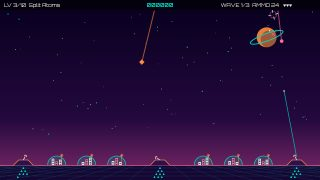
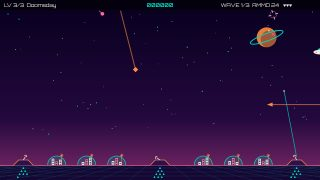
Give Atomic Defense three levels and a saved-skyline ending (oi3)
First Light (plain warheads), Split Atoms (salvos, MIRVs, smart bombs,
saucers) and Doomsday (heavies, cruise missiles, a blackout wave and the
mothership) replace the ten-level table; night is now per wave, so the
blackout is one wave of the finale. The ending raises six domes under
searchlights and Googie starbursts.

Claude-Session: https://claude.ai/code/session_016R86i3evNakTHXcnyVkEfD

diff --git a/internal/generator/templates/themes/retrofuture/game.js b/internal/generator/templates/themes/retrofuture/game.js
@@ -9,10 +9,12 @@
  * wave, batteries can be knocked out, and the level is lost when the last
  * city falls. Points earn bonus cities.
  *
- * The ten levels add, in turn: salvos, MIRVs that split, saucers that bomb,
- * night (only trails show, blasts light up what is near them), smart bombs
- * that dodge blasts, heavy warheads that need two blasts and flatten the
- * neighbours, low cruise missiles from the sides, and a mothership.
+ * Three levels: plain warheads first; then salvos, MIRVs that split, smart
+ * bombs that dodge blasts and saucers that bomb; then the final assault with
+ * heavy warheads that need two blasts and flatten the neighbours, low cruise
+ * missiles from the sides, a blackout wave (only trails show, blasts light
+ * up what is near them) and a mothership. Saving the cities opens the
+ * ending: the skyline rises under searchlights and atomic starbursts.
  */
 (function () {
     'use strict';
@@ -38,18 +40,12 @@
 
     // n: warheads per wave; speed: px/s; gap: seconds between launches (or
     // between salvos); salvo: launches per group; mirv/smart/heavy/cruise:
-    // share of launches of that kind; saucers: per wave.
+    // share of launches of that kind; saucers and night: per wave; boss: the
+    // last wave brings the mothership.
     var LEVELS = [
-        { n: [7, 9, 11], speed: 42, gap: 1.7 },
-        { n: [9, 12, 15], speed: 54, gap: 3.6, salvo: 3 },
-        { n: [9, 10, 12], speed: 56, gap: 1.6, mirv: 0.35 },
-        { n: [9, 11, 12], speed: 60, gap: 1.5, mirv: 0.2, saucers: [1, 2, 2] },
-        { n: [10, 12, 13], speed: 60, gap: 1.5, mirv: 0.25, saucers: [1, 1, 2], night: true },
-        { n: [10, 12, 14], speed: 64, gap: 1.4, mirv: 0.2, smart: 0.22, saucers: [0, 1, 1] },
-        { n: [10, 12, 13, 14], speed: 66, gap: 1.4, mirv: 0.2, smart: 0.12, heavy: 0.18, saucers: [1, 1, 1, 2] },
-        { n: [11, 12, 13, 15], speed: 70, gap: 1.3, mirv: 0.22, smart: 0.15, heavy: 0.1, saucers: [1, 1, 1, 1], night: true },
-        { n: [11, 13, 14, 16], speed: 74, gap: 1.3, mirv: 0.18, smart: 0.12, heavy: 0.1, cruise: 0.22, saucers: [1, 1, 2, 2] },
-        { n: [12, 14, 15, 8], speed: 76, gap: 1.25, mirv: 0.2, smart: 0.14, heavy: 0.1, cruise: 0.14, saucers: [1, 1, 2, 0], night: true, boss: true }
+        { n: [8, 10, 12], speed: 44, gap: 1.6 },
+        { n: [10, 12, 14], speed: 54, gap: 2.6, salvo: 2, mirv: 0.3, smart: 0.1, saucers: [0, 1, 2] },
+        { n: [10, 10, 8], speed: 62, gap: 1.35, mirv: 0.2, smart: 0.12, heavy: 0.12, cruise: 0.14, saucers: [1, 1, 0], night: [false, true, false], boss: true }
     ];
 
     // ------------------------------------------------------------------
@@ -147,6 +143,9 @@
         s.queue = buildWave(s);
         return s;
     }
+
+    // The blackout is one wave of the finale: only trails show.
+    function night(s) { return !!(s.cfg.night && s.cfg.night[s.wave]); }
 
     function cities(s, alive) {
         return s.sites.filter(function (c) { return !c.base && c.alive === alive; });
@@ -329,7 +328,7 @@
         f.x += f.vx * dt; f.y += f.vy * dt;
         if (f.hurt > 0) f.hurt -= dt;
         // The trail is a capped list of points, so curving paths draw right
-        // and the night levels can show just its last stretch.
+        // and the blackout can show just its last stretch.
         var last = f.trail[f.trail.length - 1];
         if (G.dist(last.x, last.y, f.x, f.y) < 14) return;
         f.trail.push({ x: f.x, y: f.y });
@@ -609,10 +608,10 @@
     }
 
     function drawSky(s, ctx) {
-        var night = !!s.cfg.night, g = ctx.createLinearGradient(0, G.HUD, 0, GROUND);
-        g.addColorStop(0, night ? '#020007' : BG);
-        g.addColorStop(0.7, night ? '#06010f' : '#24093f');
-        g.addColorStop(1, night ? '#12041f' : '#6a2360');
+        var dark = night(s), g = ctx.createLinearGradient(0, G.HUD, 0, GROUND);
+        g.addColorStop(0, dark ? '#020007' : BG);
+        g.addColorStop(0.7, dark ? '#06010f' : '#24093f');
+        g.addColorStop(1, dark ? '#12041f' : '#6a2360');
         ctx.fillStyle = g;
         ctx.fillRect(0, 0, G.W, GROUND);
         s.stars.forEach(function (st, i) {
@@ -621,14 +620,14 @@
             ctx.fillStyle = st.big ? TEAL : CREAM;
             ctx.fillRect(st.x, st.y, st.big ? 3 : 2, st.big ? 3 : 2);
         });
-        drawPlanet(ctx, night);
+        drawPlanet(ctx, dark);
     }
 
     // A perspective grid below the horizon, in the theme's own style.
     function drawGround(s, ctx) {
-        ctx.fillStyle = s.cfg.night ? '#07020f' : '#160633';
+        ctx.fillStyle = night(s) ? '#07020f' : '#160633';
         ctx.fillRect(0, GROUND, G.W, G.H - GROUND);
-        ctx.strokeStyle = TEAL; ctx.lineWidth = 1; ctx.globalAlpha = s.cfg.night ? 0.12 : 0.28;
+        ctx.strokeStyle = TEAL; ctx.lineWidth = 1; ctx.globalAlpha = night(s) ? 0.12 : 0.28;
         ctx.beginPath();
         for (var i = -14; i <= 14; i++) { ctx.moveTo(G.W / 2 + i * 38, GROUND); ctx.lineTo(G.W / 2 + i * 92, G.H); }
         for (var y = GROUND + 8; y < G.H; y += 12) { ctx.moveTo(0, y); ctx.lineTo(G.W, y); }
@@ -734,7 +733,7 @@
 
     function drawSites(s, ctx) {
         s.sites.forEach(function (c) {
-            if (c.base) drawBattery(ctx, c, s.touch); else drawCity(ctx, c, !!s.cfg.night);
+            if (c.base) drawBattery(ctx, c, s.touch); else drawCity(ctx, c, night(s));
         });
     }
 
@@ -744,7 +743,7 @@
 
     // At night anything is only seen in the glow of a nearby blast.
     function lit(s, x, y) {
-        if (!s.cfg.night) return true;
+        if (!night(s)) return true;
         return s.blasts.some(function (b) { return G.dist(x, y, b.x, b.y) < b.r + 90; });
     }
 
@@ -790,9 +789,9 @@
     }
 
     function drawFoes(s, ctx) {
-        var night = !!s.cfg.night;
+        var dark = night(s);
         s.foes.forEach(function (f) {
-            drawTrail(ctx, f, night);
+            drawTrail(ctx, f, dark);
             if (lit(s, f.x, f.y)) drawHead(ctx, f);
         });
     }
@@ -891,7 +890,7 @@
             return;
         }
         if (s.waveT <= 0.05 || s.waveT > 2.4) return;
-        var note = s.boss ? 'MOTHERSHIP INBOUND' : (s.cfg.night ? 'BLACKOUT: WATCH THE TRAILS' : 'DEFEND THE DOMES');
+        var note = s.boss ? 'MOTHERSHIP INBOUND' : (night(s) ? 'BLACKOUT: WATCH THE TRAILS' : 'DEFEND THE DOMES');
         ctx.globalAlpha = Math.min(1, (2.4 - s.waveT) * 2);
         G.text('WAVE ' + (s.wave + 1) + ' OF ' + waves, G.W / 2, 190, { size: 30, bold: true, color: ORANGE, align: 'center', glow: ORANGE });
         G.text(note, G.W / 2, 226, { size: 20, color: CREAM, align: 'center' });
@@ -911,6 +910,68 @@
         drawCursor(s, ctx);
     }
 
+    // ------------------------------------------------------------------
+    // The ending: the skyline the player saved
+    // ------------------------------------------------------------------
+
+    // Six domes rise one after another, as a rebuilt city does, in a fresh
+    // foreground strip that covers the batteries' tally (and stays under the
+    // engine's small print); searchlights sweep the sky and atomic
+    // starbursts twinkle in the corners, clear of the engine's text.
+    var END_K = 1.2;
+    var BURSTS = [[70, 80], [890, 90], [250, 60], [710, 70], [130, 240], [830, 250], [60, 350], [900, 360]];
+
+    function drawSkyline(ctx, t) {
+        var span = G.W / END_K;
+        ctx.fillStyle = '#160633';
+        ctx.fillRect(0, GROUND, G.W, G.H - GROUND);
+        ctx.fillStyle = PINK;
+        ctx.fillRect(0, GROUND - 1, G.W, 2);
+        ctx.save();
+        ctx.translate(0, G.H - GROUND * END_K);
+        ctx.scale(END_K, END_K);
+        for (var i = 0; i < 6; i++) {
+            drawCity(ctx, { x: span * (i + 0.5) / 6, i: i, alive: true, rise: G.clamp(1 - (t - 0.3 * i) / 0.8, 0, 1) }, false);
+        }
+        ctx.restore();
+    }
+
+    function drawSearchlights(ctx, t) {
+        ctx.fillStyle = CREAM;
+        ctx.globalAlpha = 0.09;
+        for (var i = 0; i < 3; i++) {
+            var x = G.W * (0.2 + 0.3 * i), y = GROUND - 40, a = -Math.PI / 2 + Math.sin(t * 0.7 + i * 2) * 0.6;
+            ctx.beginPath();
+            ctx.moveTo(x, y);
+            ctx.lineTo(x + Math.cos(a - 0.07) * 700, y + Math.sin(a - 0.07) * 700);
+            ctx.lineTo(x + Math.cos(a + 0.07) * 700, y + Math.sin(a + 0.07) * 700);
+            ctx.fill();
+        }
+        ctx.globalAlpha = 1;
+    }
+
+    // A Googie starburst: four spokes that turn and breathe.
+    function drawStarbursts(ctx, t) {
+        ctx.lineWidth = 2;
+        BURSTS.forEach(function (p, i) {
+            var r = 8 + 6 * Math.abs(Math.sin(t * 2 + i)), a = t * 0.8 + i;
+            ctx.strokeStyle = BLAST_HUES[(i + Math.floor(t * 2)) % 4];
+            ctx.beginPath();
+            for (var k = 0; k < 4; k++) {
+                var c = Math.cos(a + k * Math.PI / 4) * r, sn = Math.sin(a + k * Math.PI / 4) * r;
+                ctx.moveTo(p[0] - c, p[1] - sn); ctx.lineTo(p[0] + c, p[1] + sn);
+            }
+            ctx.stroke();
+        });
+    }
+
+    var ENDING = {
+        title: 'CITIES SAVED',
+        text: 'The domes shine on into the atomic age.',
+        colors: [TEAL, PINK, ORANGE, CREAM],
+        draw: function (e, ctx) { drawSearchlights(ctx, e.t); drawStarbursts(ctx, e.t); drawSkyline(ctx, e.t); }
+    };
+
     function hud(s) {
         if (s.touch) return 'W' + (s.wave + 1) + '/' + s.cfg.n.length + ' AMMO ' + ammoLeft(s) + (s.spare ? ' +' + s.spare + ' CITY' : '');
         return 'WAVE ' + (s.wave + 1) + '/' + s.cfg.n.length + '  AMMO ' + ammoLeft(s) + (s.spare ? '  +' + s.spare + ' CITY' : '');
@@ -925,7 +986,7 @@
             'Lead the warheads · Blasts chain together',
             'Ammo refills each wave · 3000 points restore a city'
         ],
-        levelNames: ['First Light', 'Rush Hour', 'Split Atoms', 'Saucer Season', 'Blackout', 'Smart Money', 'Heavy Water', 'Midnight Oil', 'Low Riders', 'Doomsday'],
+        levelNames: ['First Light', 'Split Atoms', 'Doomsday'],
         colors: { bg: BG, fg: CREAM, accent: TEAL, dim: '#a595c4' },
         lives: 3,
         // A bright, bouncy major tune with a sine lead for the theremin feel.
@@ -939,7 +1000,7 @@
             arp: '0.1.2.3.2.1.', drums: { k: 'x...x...x...x...', s: '....x.......x..x', h: '..x...x...x...x.' },
             leadWave: 'sine', bassWave: 'triangle', arpWave: 'triangle', leadOct: 2
         },
-        init: init, update: update, draw: draw, hud: hud, cursor: 'crosshair',
+        init: init, update: update, draw: draw, hud: hud, cursor: 'crosshair', ending: ENDING,
         // A tap on the canvas aims and fires at once, which is all a phone
         // needs; the stick plus FIRE stays for those whose finger would hide
         // the target. Nothing is on B.

diff --git a/integrationtests/games/retrofuture-bot.js b/integrationtests/games/retrofuture-bot.js
@@ -1,6 +1,6 @@
 (function () {
     var G = SnoGame, wins = [];
-    for (var level of [1, 5, 10]) {
+    for (var level of [1, 2, 3]) {
         G.debug.start(level);
         var ticks = 0, wait = 0;
         while (ticks++ < 40000 && G.debug.state().screen === 'play') {
@@ -25,6 +25,6 @@
         }
         wins.push({ level: level, screen: G.debug.state().screen, ticks: ticks });
     }
-    G.debug.start(10); G.debug.step(50000, {});
+    G.debug.start(1); G.debug.step(50000, {});
     return { wins: wins, idle: G.debug.state().screen, errors: G.debug.errors.slice() };
 })()

diff --git a/docs/games.md b/docs/games.md
@@ -661,10 +661,17 @@ Six domed cities and three missile batteries with limited ammunition. Mouse
 aims (keyboard: arrows move the cursor), click or `SPACE` fires from the
 nearest battery with ammo; the counter-missile explodes at the cursor in an
 expanding blast that chains. Enemy ICBMs streak down, some split (MIRV),
-smart bombs dodge blasts, saucers cross and bomb. Survive every wave of the
-level with at least one city. Levels: faster and more missiles, MIRVs,
-smart bombs, saucers, night levels with only trails visible; bonus city for
-points. Googie styling, theremin-like sine slides, optimistic major music.
+smart bombs dodge blasts, saucers cross and bomb. Ammunition refills each
+wave; blasts chain. Survive every wave of the level with at least one city;
+3000 points earn a bonus city. Levels: 1 *First Light* — three waves of plain
+warheads to learn leading a target; 2 *Split Atoms* — salvos, MIRVs that
+split, a few smart bombs and saucers; 3 *Doomsday* — the final assault adds
+heavy warheads (two blasts, flatten the neighbours) and cruise missiles from
+the sides, the second wave is a blackout with only trails visible, and the
+third brings the shielded mothership. The ending ("CITIES SAVED"): six domes
+rise in the foreground under sweeping searchlights, Googie starbursts and
+fireworks in the theme's colours. Googie styling, theremin-like sine slides,
+optimistic major music.
 
 ### spaceage — Orbital Dock (thrust lander)
 `← →` rotate, `↑` or `SPACE` thrust. Gravity, inertia, limited fuel. Land on
